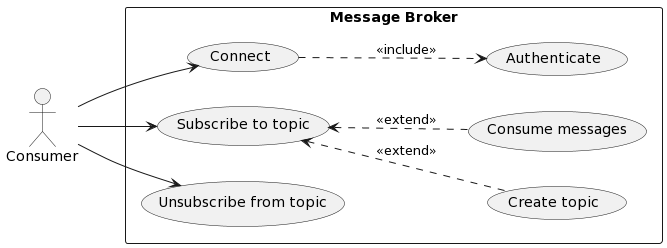
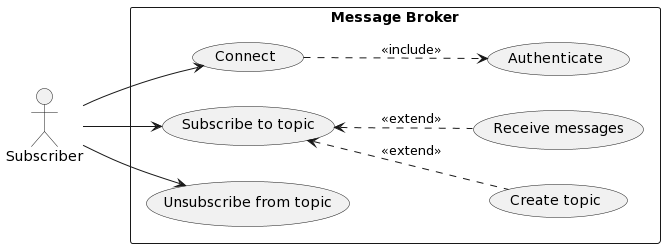
Update README.md, add k6 test

diff --git a/test.js b/test.js
@@ -1,0 +1,36 @@
+import { check, sleep } from 'k6'
+import grpc from 'k6/net/grpc'
+import encoding from 'k6/encoding'
+import { randomString, randomItem } from 'https://jslib.k6.io/k6-utils/1.4.0/index.js'
+
+export const options = {
+    stages: [
+        { duration: '30s', target: 10 }
+    ],
+};
+
+const topics = ['Alerts', 'News'];
+const nodes = ['localhost:8070', 'localhost:8080', 'localhost:8090']
+
+const client = new grpc.Client();
+client.load(['proto'], 'broker.proto');
+
+export default () => {
+    client.connect(randomItem(nodes), {
+        plaintext: true,
+    });
+
+    const data = {
+        body: encoding.b64encode(randomString(20)),
+        topic: randomItem(topics),
+    };
+
+    const response = client.invoke('broker.Broker/Publish', data);
+
+    check(response, {
+        'status is OK': (r) => r && r.status === grpc.StatusOK,
+    });
+    
+    client.close();
+    sleep(1);
+}

diff --git a/data/repository.go b/data/repository.go
@@ -34,7 +34,7 @@ func (r *repository) GetMessages(topicName string, timestamp int64) <-chan []Mes
 		var messages []Message
 
 		// Processing records in batches of 50
-		result := r.db.Where("topic = ? AND timestamp > ?", topicName, timestamp).FindInBatches(&messages, 50, func(tx *gorm.DB, batch int) error {
+		result := r.db.Where("topic = ? AND timestamp > ?", topicName, timestamp).Order("timestamp").FindInBatches(&messages, 50, func(tx *gorm.DB, batch int) error {
 			select {
 			case msgChan <- messages:
 				slog.Debug("Sending batch of messages", "topic", topicName, "batch", batch, "size", len(messages))

diff --git a/README.md b/README.md
@@ -58,30 +58,30 @@ Design and implement a distributed, fault-tolerant message broker system that le
 
 ## Requirements
 
-### Consumer Requirements
-1. The system must provide authentication mechanisms for consumers, ensuring secure access to
+### Subscriber Requirements
+1. The system must provide authentication mechanisms for subscribers, ensuring secure access to
 topics.
-2. Consumers should have the ability to subscribe to specific topics of interest, allowing them to
+2. Subscribers should have the ability to subscribe to specific topics of interest, allowing them to
 receive relevant messages.
-3. Consumers must be able to unsubscribe from topics when they no longer wish to receive
+3. Subscribers must be able to unsubscribe from topics when they no longer wish to receive
 messages from those topics.
-4. Consumers should be able to consume messages from the subscribed topics, enabling them to
+4. Subscribers should be able to receive messages from the subscribed topics, enabling them to
 process the messages as needed.
-5. Consumers should be able to receive messages from the nearest data center in the geo-distributed
+5. Subscribers should be able to receive messages from the nearest data center in the geo-distributed
 network to minimize latency and enhance the real-time nature of their applications.
 
-![Consumer use case diagram](./diagrams/use_cons.png)
+![Subscriber use case diagram](./diagrams/use_cons.png)
 
-### Producer Requirements
-1. The system must provide authentication mechanisms for producers, ensuring secure publishing
+### Publisher Requirements
+1. The system must provide authentication mechanisms for publishers, ensuring secure publishing
 of messages to topics.
-2. Producers must be able to create new topics in the message broker for effective message categorization and publishing.
-3. Producers should be able to publish messages to specific topics, with the message broker
-ensuring reliable message delivery to consumers.
-4. Producers should be able to publish messages to the nearest data center in the geo-distributed
+2. Publishers must be able to create new topics in the message broker for effective message categorization and publishing.
+3. Publishers should be able to publish messages to specific topics, with the message broker
+ensuring reliable message delivery to subscribers.
+4. Publishers should be able to publish messages to the nearest data center in the geo-distributed
 network to minimize latency.
 
-![Producer use case diagram](./diagrams/use_prod.png)
+![Publisher use case diagram](./diagrams/use_prod.png)
 
 ### Developer Requirements
 1. Developers should have access to comprehensive documentation that explains the message
@@ -104,12 +104,12 @@ scalability and management across different environments.
 | High Availability | Aim for at least 99.99% uptime over a year (approximately 52 minutes of downtime per year). |
 | Consistency | Guarantee strong consistency and data integrity across all nodes, ensuring that messages are delivered in the order they were published. |
 | Security | Implement measures to protect against unauthorized access and data breaches, while maintaining minimal impact on system performance. |
-| Load Balancing | Ensure clients can publish or consume messages from nodes near their geographical area. |
+| Load Balancing | Ensure clients can publish or receive messages from nodes near their geographical area. |
 | Message Retention and Cleanup | Configurable message retention with automatic cleanup. |
 | Message Delivery Guarantee | Guarantee at-least-once delivery of messages. |
 | Message Ordering Guarantee | Guarantee in-order delivery of messages. |
 | Message Durability | Guarantee message durability in the event of node failures. |
-| Interface | Provide gRPC interface for clients to publish and consume messages. |
+| Interface | Provide gRPC interface for clients to publish and receive messages. |
 | Logging | Support logging for system administrators to monitor the health of the system. |
 | Deployment | Provide a deployment mechanism to deploy the system on any cloud platform. |
 
@@ -121,8 +121,8 @@ scalability and management across different environments.
 ### Deployment Across Multiple Regions
 ![Deployment diagram](./diagrams/depl.png)
 
-### Consensus No Conflicts
+<!-- ### Consensus No Conflicts
 ![Nodes sequence diagram](./diagrams/seq_nodes.png)
 
 ### Consensus With Conflicts
-![Conflict sequence diagram](./diagrams/seq_conflict.png)
+![Conflict sequence diagram](./diagrams/seq_conflict.png) -->
